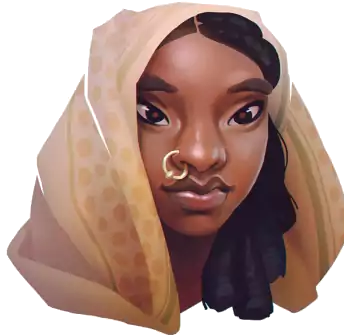
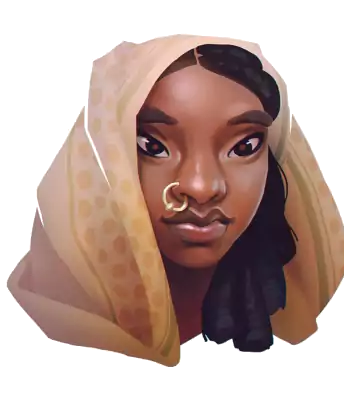
Fatima

diff --git a/index.html b/index.html
@@ -1450,7 +1450,7 @@ mientras camina por la playa y la costa es escuchado por la gente, provocando es
     <h3>Drogas y venenos</h3>
     <p><a href="https://pixabay.com/es/illustrations/elixir-poci%C3%B3n-m%C3%A1gica-7425632/" 
       target="_blank" rel="noopener" title="Elixir Poción Mágica Botella De por R-region">
-      <img src='https://1001ghules.gwannon.com/assests/images/botella-veneno.png' class="silueta" 
+      <img src='https://1001ghules.gwannon.com/assests/images/botella-veneno.png' class="silueta" alt="Elixir Poción Mágica Botella De por R-region"
       style="width: 125px; height: auto; shape-outside: url(https://1001ghules.gwannon.com/assests/images/botella-veneno.png);"></a>
       Los venenos y las drogas son algo muy común y tenemos muchas opciones.</p>
     <h4>Haschisch</h4>
@@ -1656,7 +1656,7 @@ mientras camina por la playa y la costa es escuchado por la gente, provocando es
       <p><b>Referencia:</b> Historia maravillosa del espejo de las vírgenes (n. 723)</p></blockquote>
     <p><a href="https://pixabay.com/es/photos/un-libro-leer-literatura-viejo-1740515/" 
       target="_blank" rel="noopener" title="Un Libro Leer Literatura por garten-gg">
-      <img src='https://1001ghules.gwannon.com/assests/images/grimorio.png' class="silueta" 
+      <img src='https://1001ghules.gwannon.com/assests/images/grimorio.png' class="silueta" alt="Un Libro Leer Literatura por garten-gg"
       style="width: 250px; height: auto; shape-outside: url(https://1001ghules.gwannon.com/assests/images/grimorio.png);"></a>***</p>
     <p class="rule">Todos los grimorios tiene un nivel de poder que representa el conocimiento que se puede aprender, 
       el numero de hechizos que se pueden aprender de él y la cantidad de poder mágico (PP) que se puede conseguir 
@@ -3740,7 +3740,7 @@ pesan en torno a los 30 kg.
       <p><b>Referencia:</b> Historia del pescador y el efrit (n. 3)</p></blockquote>
     <p><a href="https://pixabay.com/es/photos/decantador-vidrio-esta%C3%B1o-azul-942521/" 
       target="_blank" rel="noopener" title="Decantador Vidrio Estaño por 27707">
-      <img src='https://1001ghules.gwannon.com/assests/images/botella-sellada.png' class="silueta" 
+      <img src='https://1001ghules.gwannon.com/assests/images/botella-sellada.png' class="silueta" alt="Decantador Vidrio Estaño por 27707" 
       style="width: 125px; height: 194px; shape-outside: url(https://1001ghules.gwannon.com/assests/images/botella-sellada.png);"></a>
       A lo largo de todas las 1001 noches hay varios ejemplos de recipientes como botellas 
       o tinajas selladas con el sello se Suleimán de las que salen todo tipo de cosas, 
@@ -3956,6 +3956,26 @@ pesan en torno a los 30 kg.
       <li><b>Habilidades:</b> ***</li>
       <li><b>Paso:</b> X; <b>Parada:</b> X; <b>Dureza:</b> X</li>
       <li><b>Desventajas:</b> ***</li>
+      <li><b>Ventajas:</b> ***</li>
+      <li><b>Capacidades especiales:</b>
+        <ul>
+          <li><b>***:</b> ***</li>
+        </ul>
+      </li>
+      <li><b>Equipo:</b> ***</li>
+    </ul>
+    <p><b>Sugerencia de interpretación:</b> ***</p>
+    <h2>Fatima, lider del pequeño Consejo &#9790;</h2>
+    <p>Fatima es la lider por derecho propio del Pequeño Consejo, es la sabia y justa de 
+      todos los pillastres callejeros que forman el consejo. ***<a href="https://www.deviantart.com/tsynali/art/indi-girl-530934040" 
+      target="_blank" rel="noopener" title="indi girl por tsynali">
+      <img src='https://1001ghules.gwannon.com/assests/images/fatima.png' class="silueta" alt="indi girl por tsynali" 
+      style="width: 40%; float: right; height: auto; shape-outside: url(https://1001ghules.gwannon.com/assests/images/fatima.png);"></a></p>
+    <ul>
+      <li><b>Atributos:</b> Agilidad dX, Astucia dX, Espíritu dX, Fuerza dX, Vigor dX</li>
+      <li><b>Habilidades:</b> ***</li>
+      <li><b>Paso:</b> X; <b>Parada:</b> X; <b>Dureza:</b> X</li>
+      <li><b>Desventajas:</b> Menor (menor), ***</li>
       <li><b>Ventajas:</b> ***</li>
       <li><b>Capacidades especiales:</b>
         <ul>
